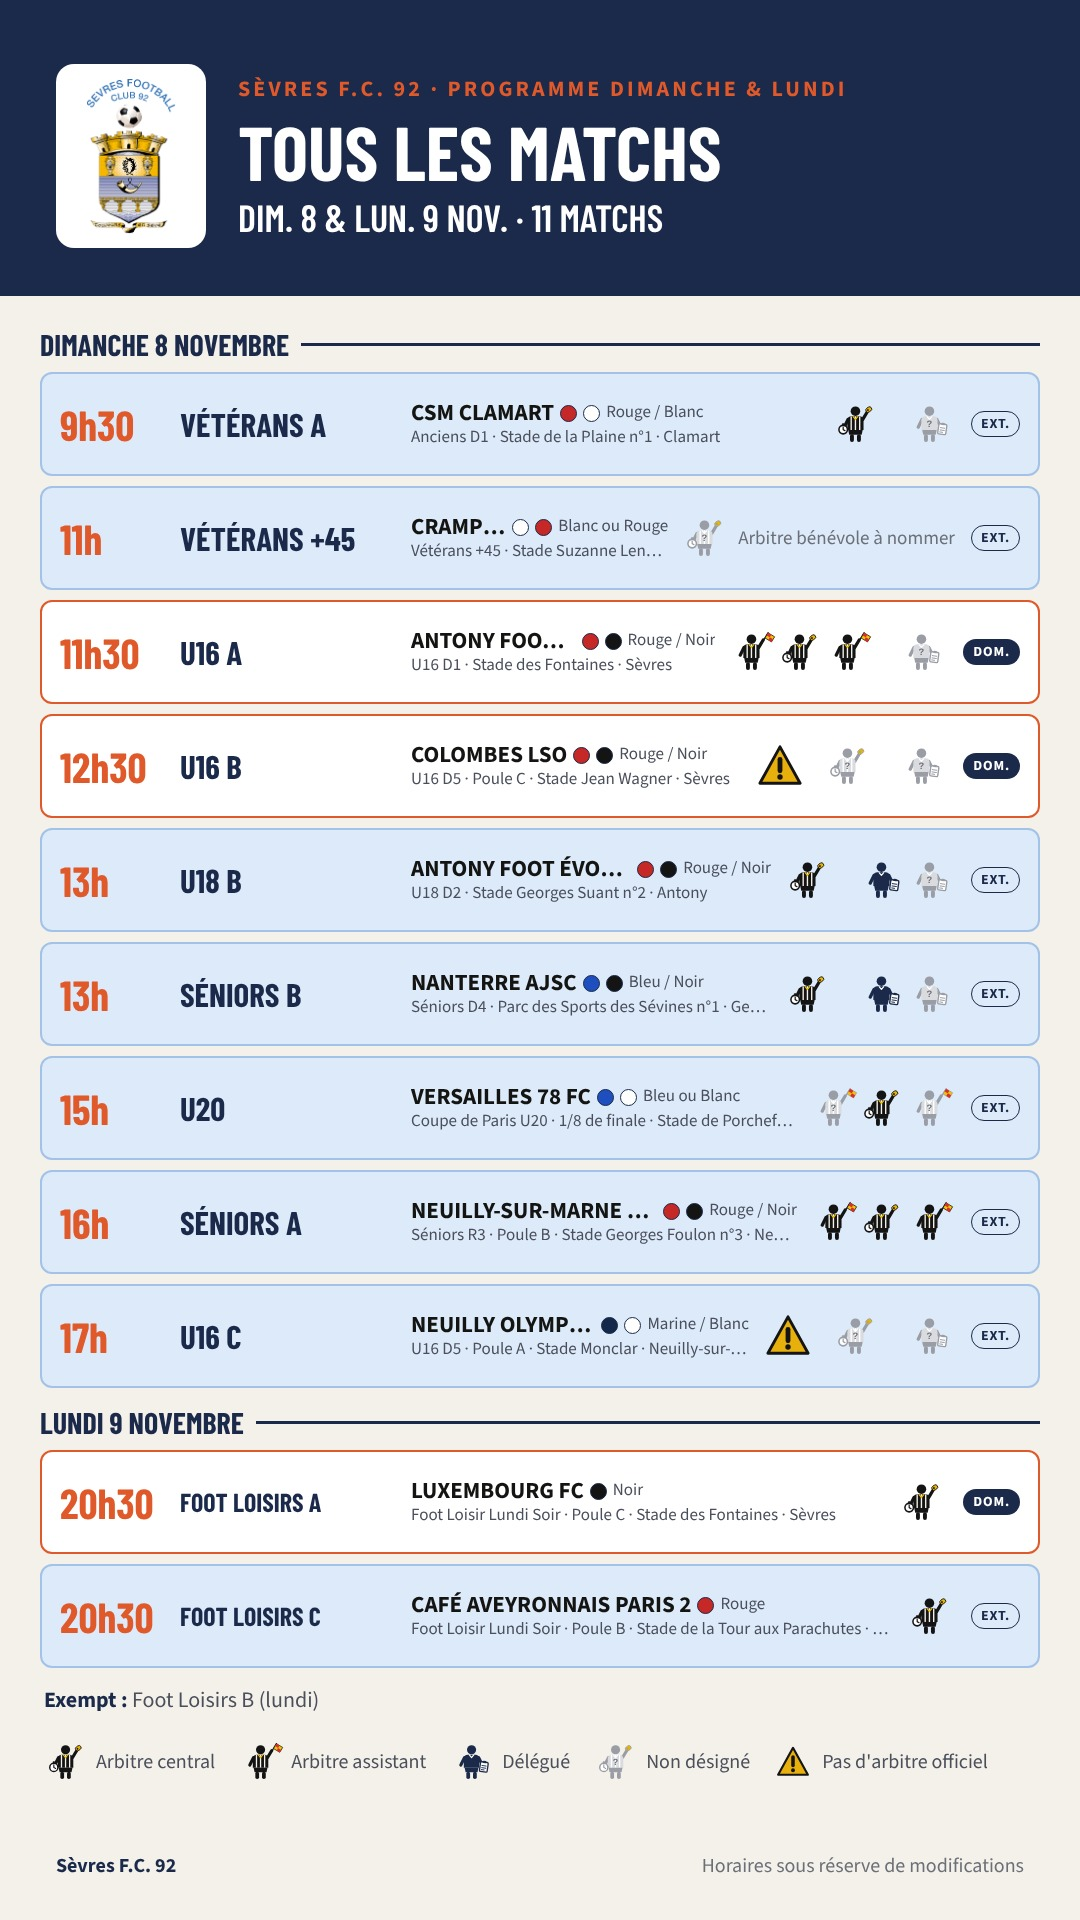
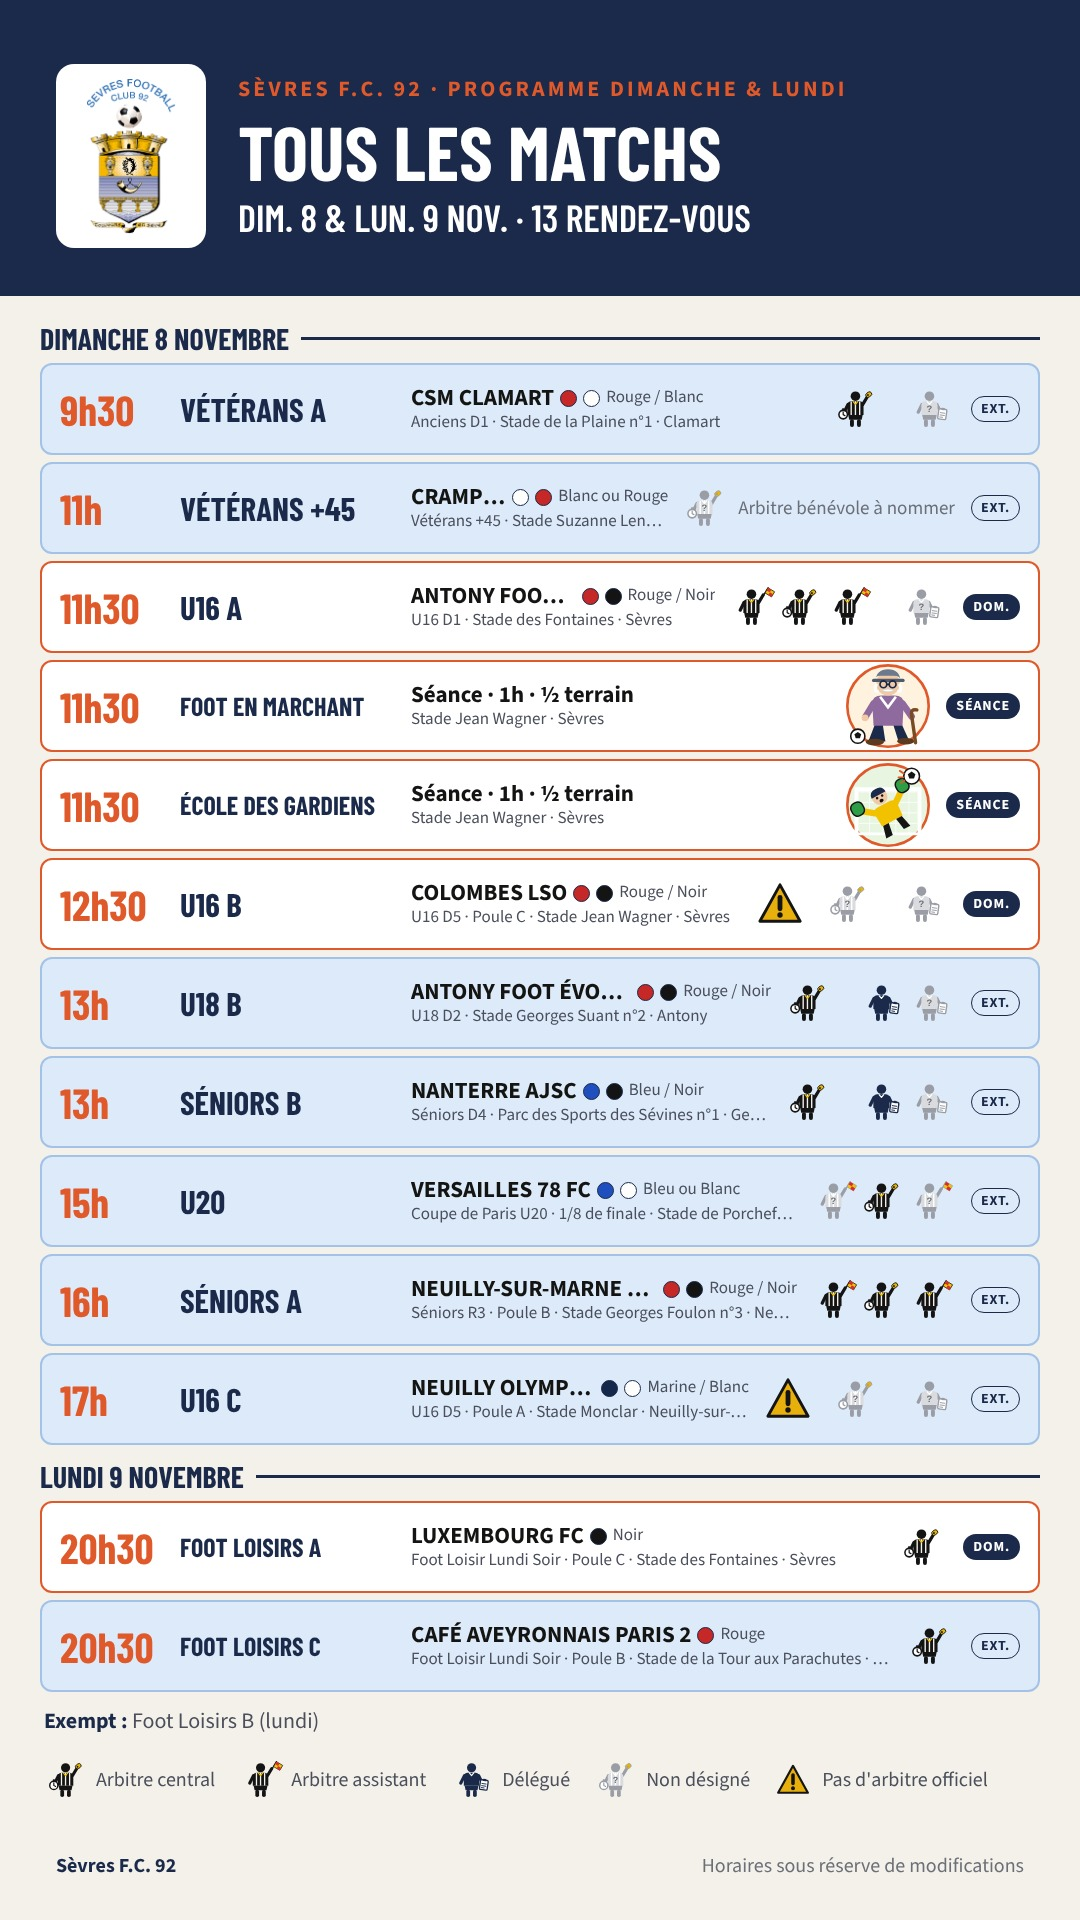
Week-end du 7-9 nov. : Foot Loisirs du samedi, foot en marchant et école des gardiens
Claude-Session: https://claude.ai/code/session_01Ce6bnA52mK2n8WA6wUPHm9

diff --git a/index.html b/index.html
@@ -83,8 +83,7 @@ footer .wrap{padding-block:16px 28px}
 </div>
 
 <script>
-const WEEKS=[{"id":"2026-10-17","lab":"17 – 18 oct.","fin":"2026-10-18","tous":[["Samedi 17","img/2026-10-17-tous-samedi.jpg"],["Dimanche 18 et lundi 19","img/2026-10-17-tous-dimanche-lundi.jpg"]],"stades":[["fontaines","Samedi 17","img/2026-10-17-fontaines-samedi.jpg"],["fontaines","Dimanche 18","img/2026-10-17-fontaines-dimanche.jpg"]],"cat":[["U12 et U13","img/2026-10-17-u12-u13.jpg"],["Féminines","img/2026-10-17-feminines.jpg"],["U14, U15 et U16","img/2026-10-17-u14-u15-u16.jpg"],["U18","img/2026-10-17-u18.jpg"],["Séniors et U20","img/2026-10-17-seniors-u20.jpg"],["Vétérans","img/2026-10-17-veterans.jpg"],["Foot loisirs","img/2026-10-17-foot-loisirs.jpg"]],"amical":[]},{"id":"2026-10-31","lab":"31 oct. – 2 nov.","fin":"2026-11-02","tous":[["Samedi 31","img/2026-10-31-tous-samedi.jpg"],["Dimanche 1er et lundi 2","img/2026-10-31-tous-dimanche-lundi.jpg"]],"stades":[["fontaines","Samedi 31","img/2026-10-31-fontaines-samedi.jpg"],["fontaines","Dimanche 1er et lundi 2","img/2026-10-31-fontaines-dimanche-lundi.jpg"],["marcel-bec","Lundi 2","img/2026-10-31-marcel-bec-lundi.jpg"]],"cat":[["Féminines","img/2026-10-31-feminines.jpg"],["U18","img/2026-10-31-u18.jpg"],["Séniors et U20","img/2026-10-31-seniors-u20.jpg"],["U15 et U16","img/2026-10-31-u15-u16.jpg"],["Vétérans","img/2026-10-31-veterans.jpg"],["Foot loisirs","img/2026-10-31-foot-loisirs.jpg"]],"amical":[["Match amical à trouver","img/2026-10-31-match-amical-a-trouver.jpg"]]},{"id":"2026-11-07","lab":"7 – 9 nov.","fin":"2026-11-09","tous":[["Samedi matin","img/2026-11-07-samedi-matin.jpg"],["Samedi midi","img/2026-11-07-samedi-midi.jpg"],["Samedi après-midi","img/2026-11-07-samedi-apres-midi.jpg"],["Dimanche 8 et lundi 9","img/2026-11-07-dimanche-lundi.jpg"]],"stades":[["fontaines","Samedi 7","img/2026-11-07-fontaines-samedi.jpg"],["wagner","Samedi 7","img/2026-11-07-wagner-samedi.jpg"],["fontaines","Dimanche 8 et lundi 9","img/2026-11-07-fontaines-dimanche-lundi.jpg"],["wagner","Dimanche 8","img/2026-11-07-wagner-dimanche.jpg"]],"cat":[["U10 et U11","img/2026-11-07-u10-u11.jpg"],["U12 et U13","img/2026-11-07-u12-u13.jpg"],["Féminines","img/2026-11-07-feminines.jpg"],["U14, U15 et U16","img/2026-11-07-u14-u15-u16.jpg"],["U18","img/2026-11-07-u18.jpg"],["Séniors et U20","img/2026-11-07-seniors-u20.jpg"],["Vétérans","img/2026-11-07-veterans.jpg"],["Foot loisirs","img/2026-11-07-foot-loisirs.jpg"]],"amical":[["Match amical à trouver","img/2026-11-07-match-amical-a-trouver.jpg"]]},{"id":"2026-11-14","lab":"14 – 16 nov.","fin":"2026-11-16","tous":[["Samedi matin","img/2026-11-14-samedi-matin.jpg"],["Samedi midi","img/2026-11-14-samedi-midi.jpg"],["Samedi après-midi","img/2026-11-14-samedi-apres-midi.jpg"],["Dimanche 15 et lundi 16","img/2026-11-14-dimanche-lundi.jpg"]],"stades":[["fontaines","Samedi 14","img/2026-11-14-fontaines-samedi.jpg"],["wagner","Samedi 14","img/2026-11-14-wagner-samedi.jpg"],["fontaines","Dimanche 15 et lundi 16","img/2026-11-14-fontaines-dimanche-lundi.jpg"],["wagner","Dimanche 15","img/2026-11-14-wagner-dimanche.jpg"],["marcel-bec","Lundi 16","img/2026-11-14-marcel-bec-lundi.jpg"]],"cat":[["U10 et U11","img/2026-11-14-u10-u11.jpg"],["U12 et U13","img/2026-11-14-u12-u13.jpg"],["Féminines","img/2026-11-14-feminines.jpg"],["U14, U15 et U16","img/2026-11-14-u14-u15-u16.jpg"],["U18","img/2026-11-14-u18.jpg"],["Séniors et U20","img/2026-11-14-seniors-u20.jpg"],["Vétérans","img/2026-11-14-veterans.jpg"],["Foot loisirs","img/2026-11-14-foot-loisirs.jpg"]],"amical":[["Match amical à trouver","img/2026-11-14-match-amical-a-trouver.jpg"]]}]
-;
+const WEEKS=[{"id":"2026-10-17","lab":"17 – 18 oct.","fin":"2026-10-18","tous":[["Samedi 17","img/2026-10-17-tous-samedi.jpg"],["Dimanche 18 et lundi 19","img/2026-10-17-tous-dimanche-lundi.jpg"]],"stades":[["fontaines","Samedi 17","img/2026-10-17-fontaines-samedi.jpg"],["fontaines","Dimanche 18","img/2026-10-17-fontaines-dimanche.jpg"]],"cat":[["U12 et U13","img/2026-10-17-u12-u13.jpg"],["Féminines","img/2026-10-17-feminines.jpg"],["U14, U15 et U16","img/2026-10-17-u14-u15-u16.jpg"],["U18","img/2026-10-17-u18.jpg"],["Séniors et U20","img/2026-10-17-seniors-u20.jpg"],["Vétérans","img/2026-10-17-veterans.jpg"],["Foot loisirs","img/2026-10-17-foot-loisirs.jpg"]],"amical":[]},{"id":"2026-10-31","lab":"31 oct. – 2 nov.","fin":"2026-11-02","tous":[["Samedi 31","img/2026-10-31-tous-samedi.jpg"],["Dimanche 1er et lundi 2","img/2026-10-31-tous-dimanche-lundi.jpg"]],"stades":[["fontaines","Samedi 31","img/2026-10-31-fontaines-samedi.jpg"],["fontaines","Dimanche 1er et lundi 2","img/2026-10-31-fontaines-dimanche-lundi.jpg"],["marcel-bec","Lundi 2","img/2026-10-31-marcel-bec-lundi.jpg"]],"cat":[["Féminines","img/2026-10-31-feminines.jpg"],["U18","img/2026-10-31-u18.jpg"],["Séniors et U20","img/2026-10-31-seniors-u20.jpg"],["U15 et U16","img/2026-10-31-u15-u16.jpg"],["Vétérans","img/2026-10-31-veterans.jpg"],["Foot loisirs","img/2026-10-31-foot-loisirs.jpg"]],"amical":[["Match amical à trouver","img/2026-10-31-match-amical-a-trouver.jpg"]]},{"id":"2026-11-07","lab":"7 – 9 nov.","fin":"2026-11-09","tous":[["Samedi matin","img/2026-11-07-samedi-matin.jpg"],["Samedi midi","img/2026-11-07-samedi-midi.jpg"],["Samedi après-midi","img/2026-11-07-samedi-apres-midi.jpg"],["Dimanche 8 et lundi 9","img/2026-11-07-dimanche-lundi.jpg"]],"stades":[["fontaines","Samedi 7","img/2026-11-07-fontaines-samedi.jpg"],["wagner","Samedi 7","img/2026-11-07-wagner-samedi.jpg"],["fontaines","Dimanche 8 et lundi 9","img/2026-11-07-fontaines-dimanche-lundi.jpg"],["wagner","Dimanche 8","img/2026-11-07-wagner-dimanche.jpg"]],"cat":[["U10 et U11","img/2026-11-07-u10-u11.jpg"],["U12 et U13","img/2026-11-07-u12-u13.jpg"],["Féminines","img/2026-11-07-feminines.jpg"],["U14, U15 et U16","img/2026-11-07-u14-u15-u16.jpg"],["U18","img/2026-11-07-u18.jpg"],["Séniors et U20","img/2026-11-07-seniors-u20.jpg"],["Vétérans","img/2026-11-07-veterans.jpg"],["Foot loisirs","img/2026-11-07-foot-loisirs.jpg"],["Séances du dimanche","img/2026-11-07-seances-dimanche.jpg"]],"amical":[["Match amical à trouver","img/2026-11-07-match-amical-a-trouver.jpg"]]},{"id":"2026-11-14","lab":"14 – 16 nov.","fin":"2026-11-16","tous":[["Samedi matin","img/2026-11-14-samedi-matin.jpg"],["Samedi midi","img/2026-11-14-samedi-midi.jpg"],["Samedi après-midi","img/2026-11-14-samedi-apres-midi.jpg"],["Dimanche 15 et lundi 16","img/2026-11-14-dimanche-lundi.jpg"]],"stades":[["fontaines","Samedi 14","img/2026-11-14-fontaines-samedi.jpg"],["wagner","Samedi 14","img/2026-11-14-wagner-samedi.jpg"],["fontaines","Dimanche 15 et lundi 16","img/2026-11-14-fontaines-dimanche-lundi.jpg"],["wagner","Dimanche 15","img/2026-11-14-wagner-dimanche.jpg"],["marcel-bec","Lundi 16","img/2026-11-14-marcel-bec-lundi.jpg"]],"cat":[["U10 et U11","img/2026-11-14-u10-u11.jpg"],["U12 et U13","img/2026-11-14-u12-u13.jpg"],["Féminines","img/2026-11-14-feminines.jpg"],["U14, U15 et U16","img/2026-11-14-u14-u15-u16.jpg"],["U18","img/2026-11-14-u18.jpg"],["Séniors et U20","img/2026-11-14-seniors-u20.jpg"],["Vétérans","img/2026-11-14-veterans.jpg"],["Foot loisirs","img/2026-11-14-foot-loisirs.jpg"]],"amical":[["Match amical à trouver","img/2026-11-14-match-amical-a-trouver.jpg"]]}];
 const STADES={fontaines:['Stade des Fontaines','Sèvres'],wagner:['Stade Jean Wagner','Sèvres'],'marcel-bec':['Stade Marcel Bec','Meudon']};
 const VIEWS=[['tous','Tous les matchs'],['stades','Par stade'],['categories','Par catégorie'],['amical','Match amical']];
 const today=new Date().toISOString().slice(0,10);
